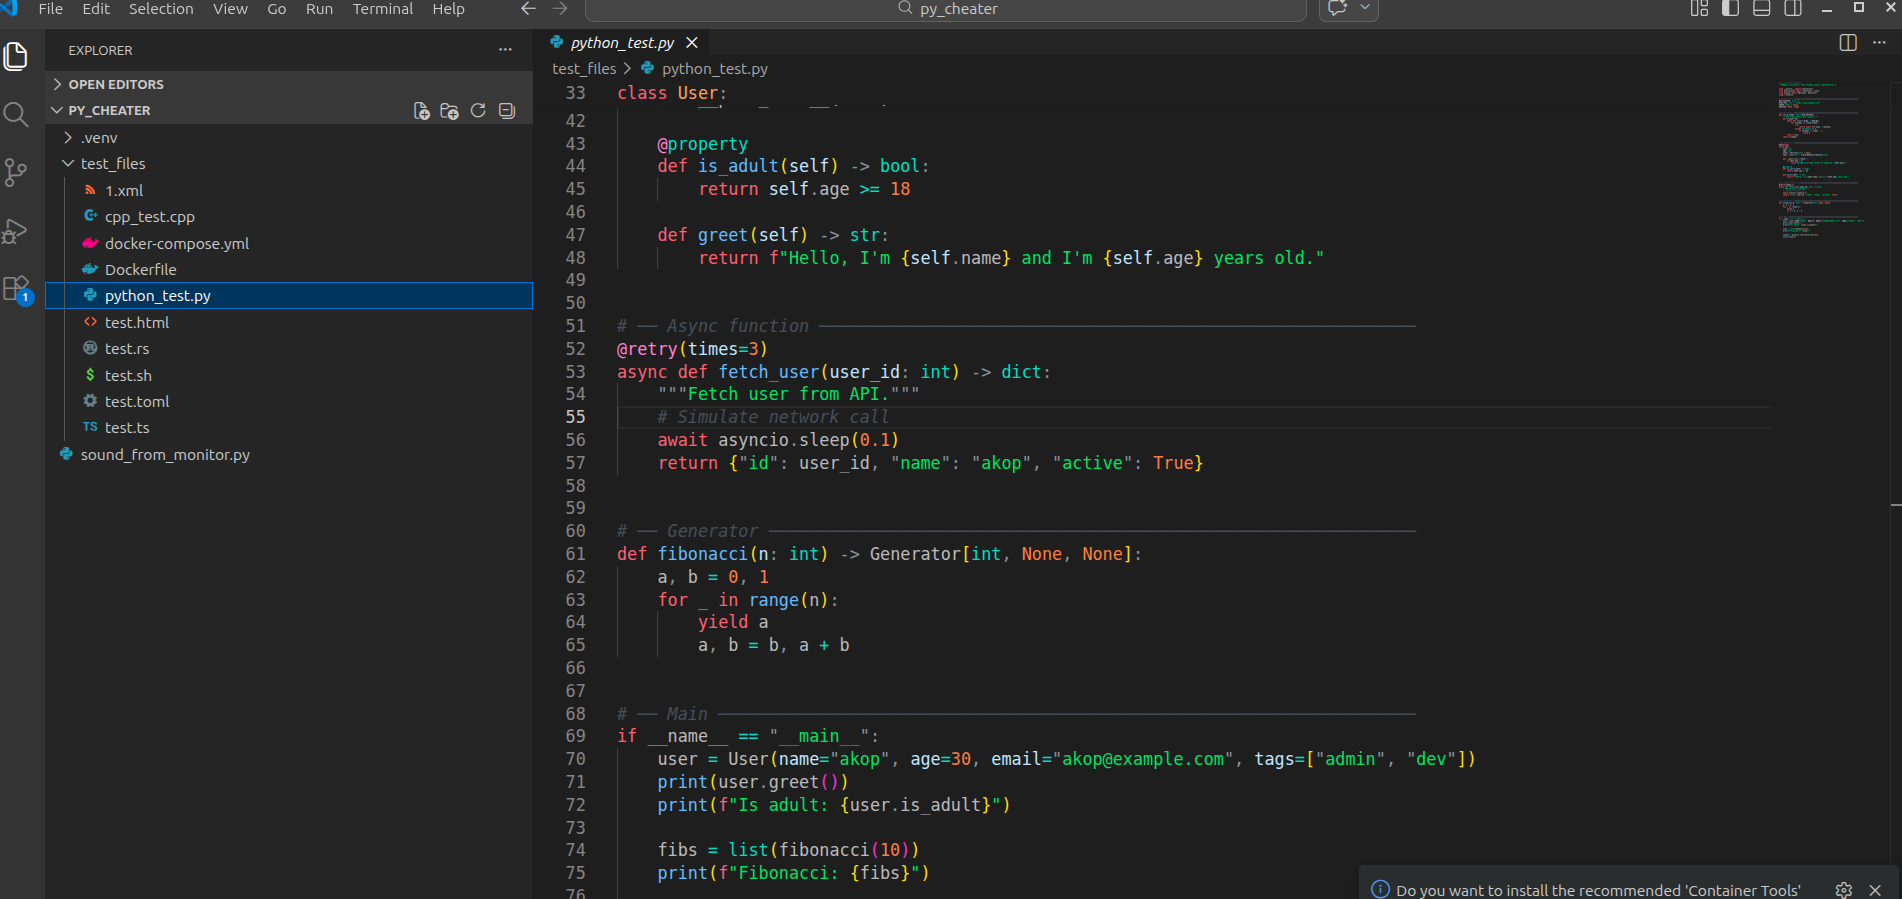
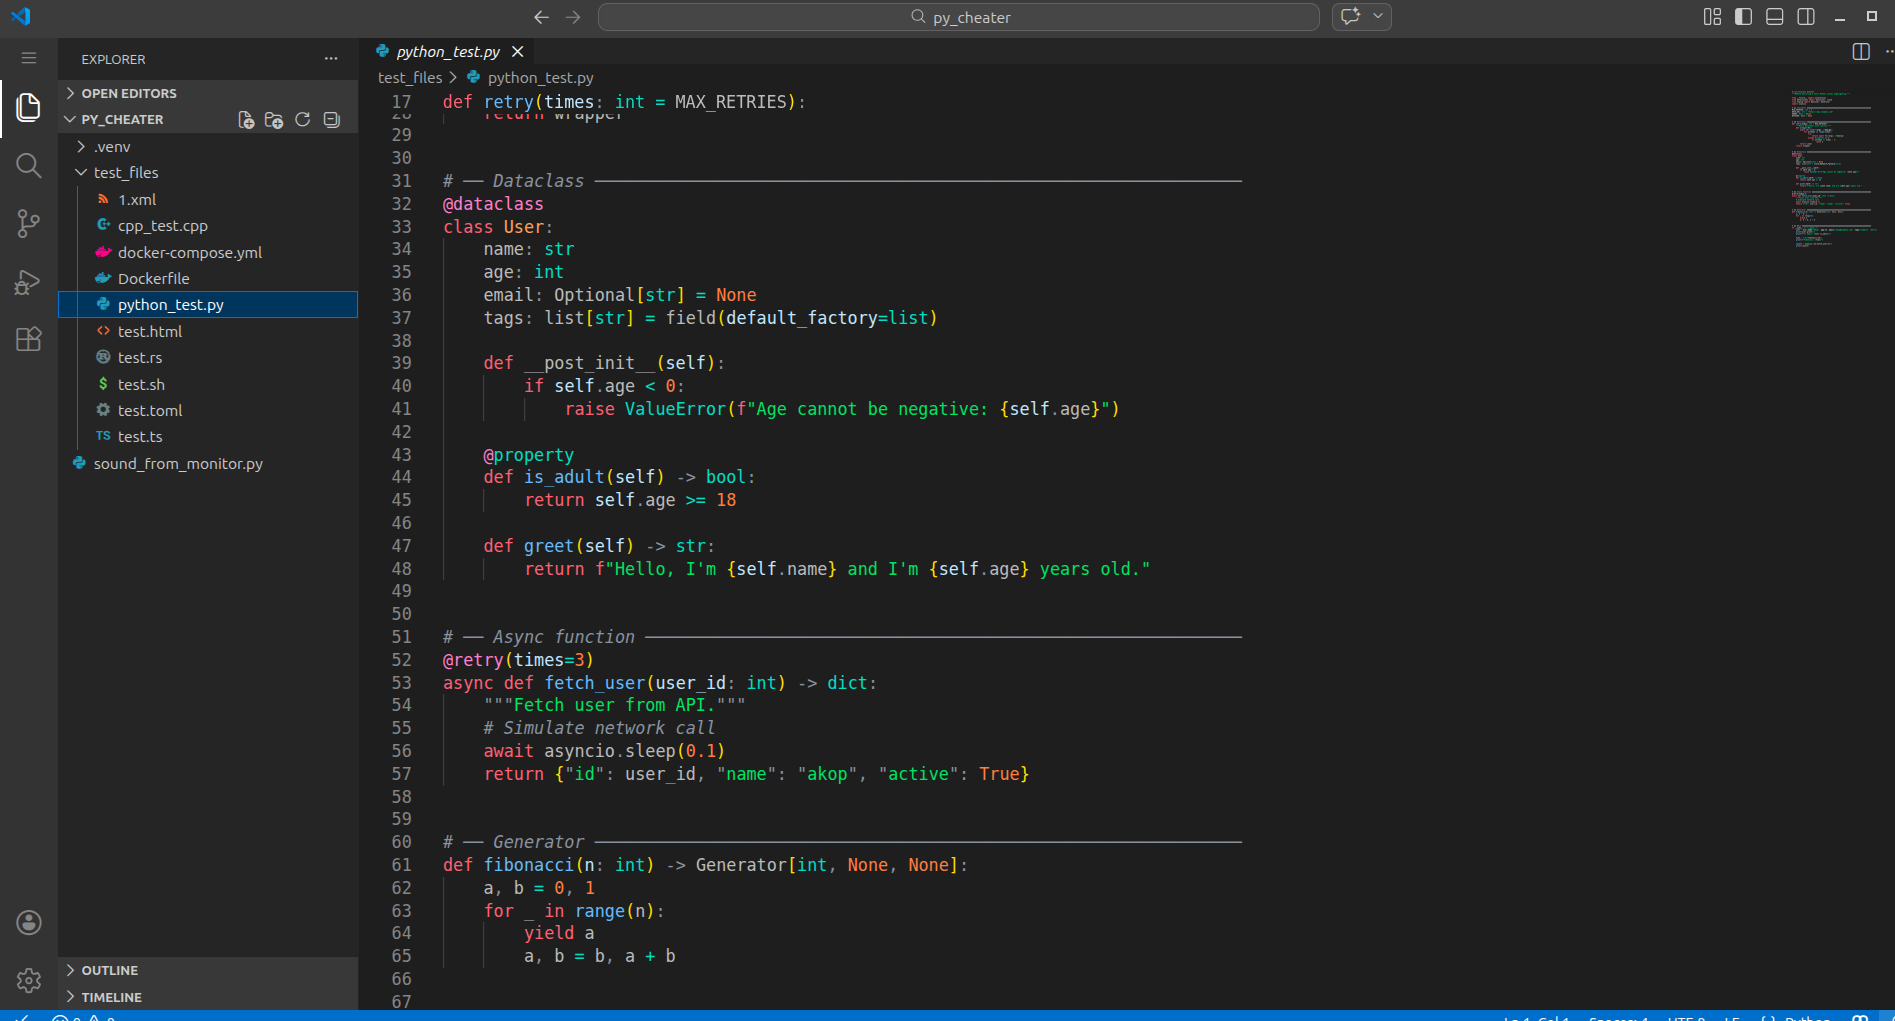
changed color of comments and updated version

diff --git a/CHANGELOG.md b/CHANGELOG.md
@@ -1,0 +1,11 @@
+# Changelog
+
+## [1.2.2] — 2026-03-12
+
+### Added
+- Initial release of JewelryUI
+- Syntax highlighting for Python, Java, JavaScript, TypeScript, C, C++, Rust
+- Syntax highlighting for HTML, CSS, YAML, TOML, Bash, Dockerfile, Docker Compose
+- Semantic token support for all languages
+- Bundled editor defaults (tree indent, compact tabs, auto save, bracket colorization)
+- Diamond gem icon
